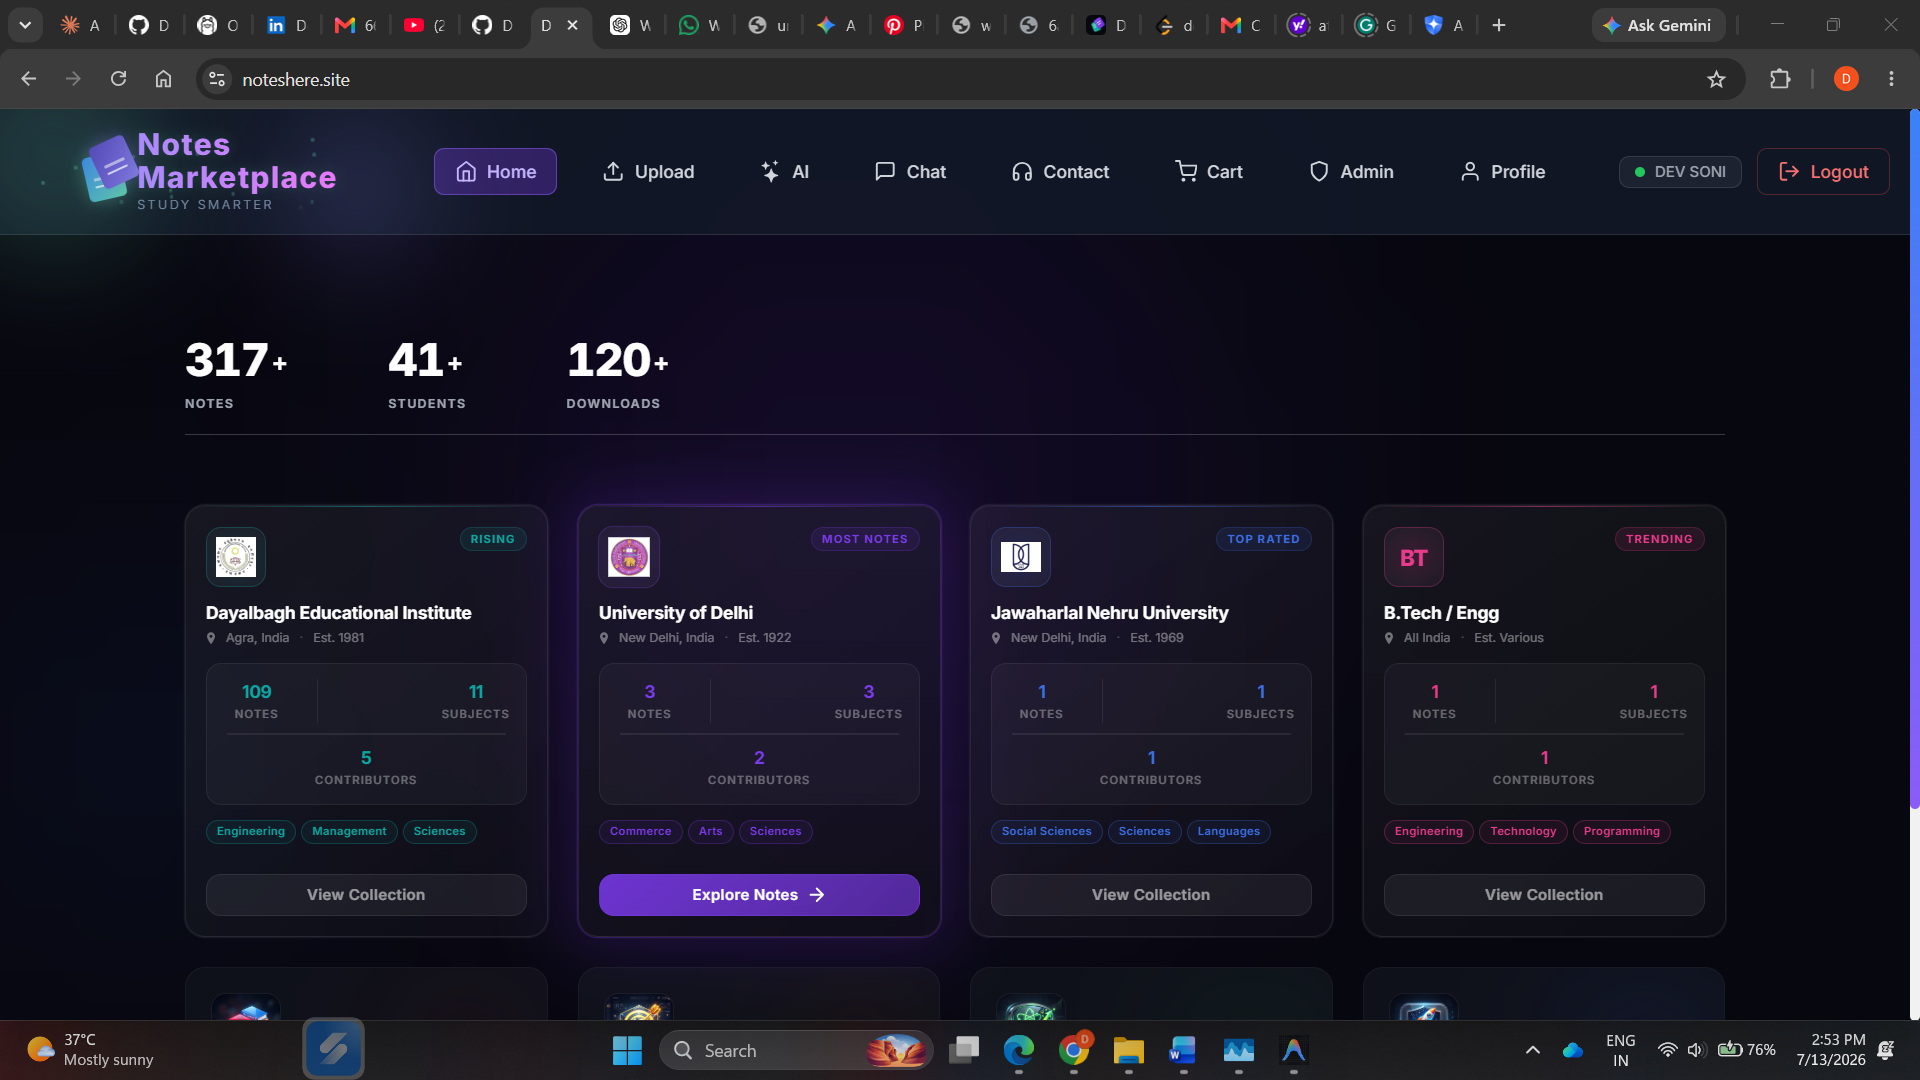
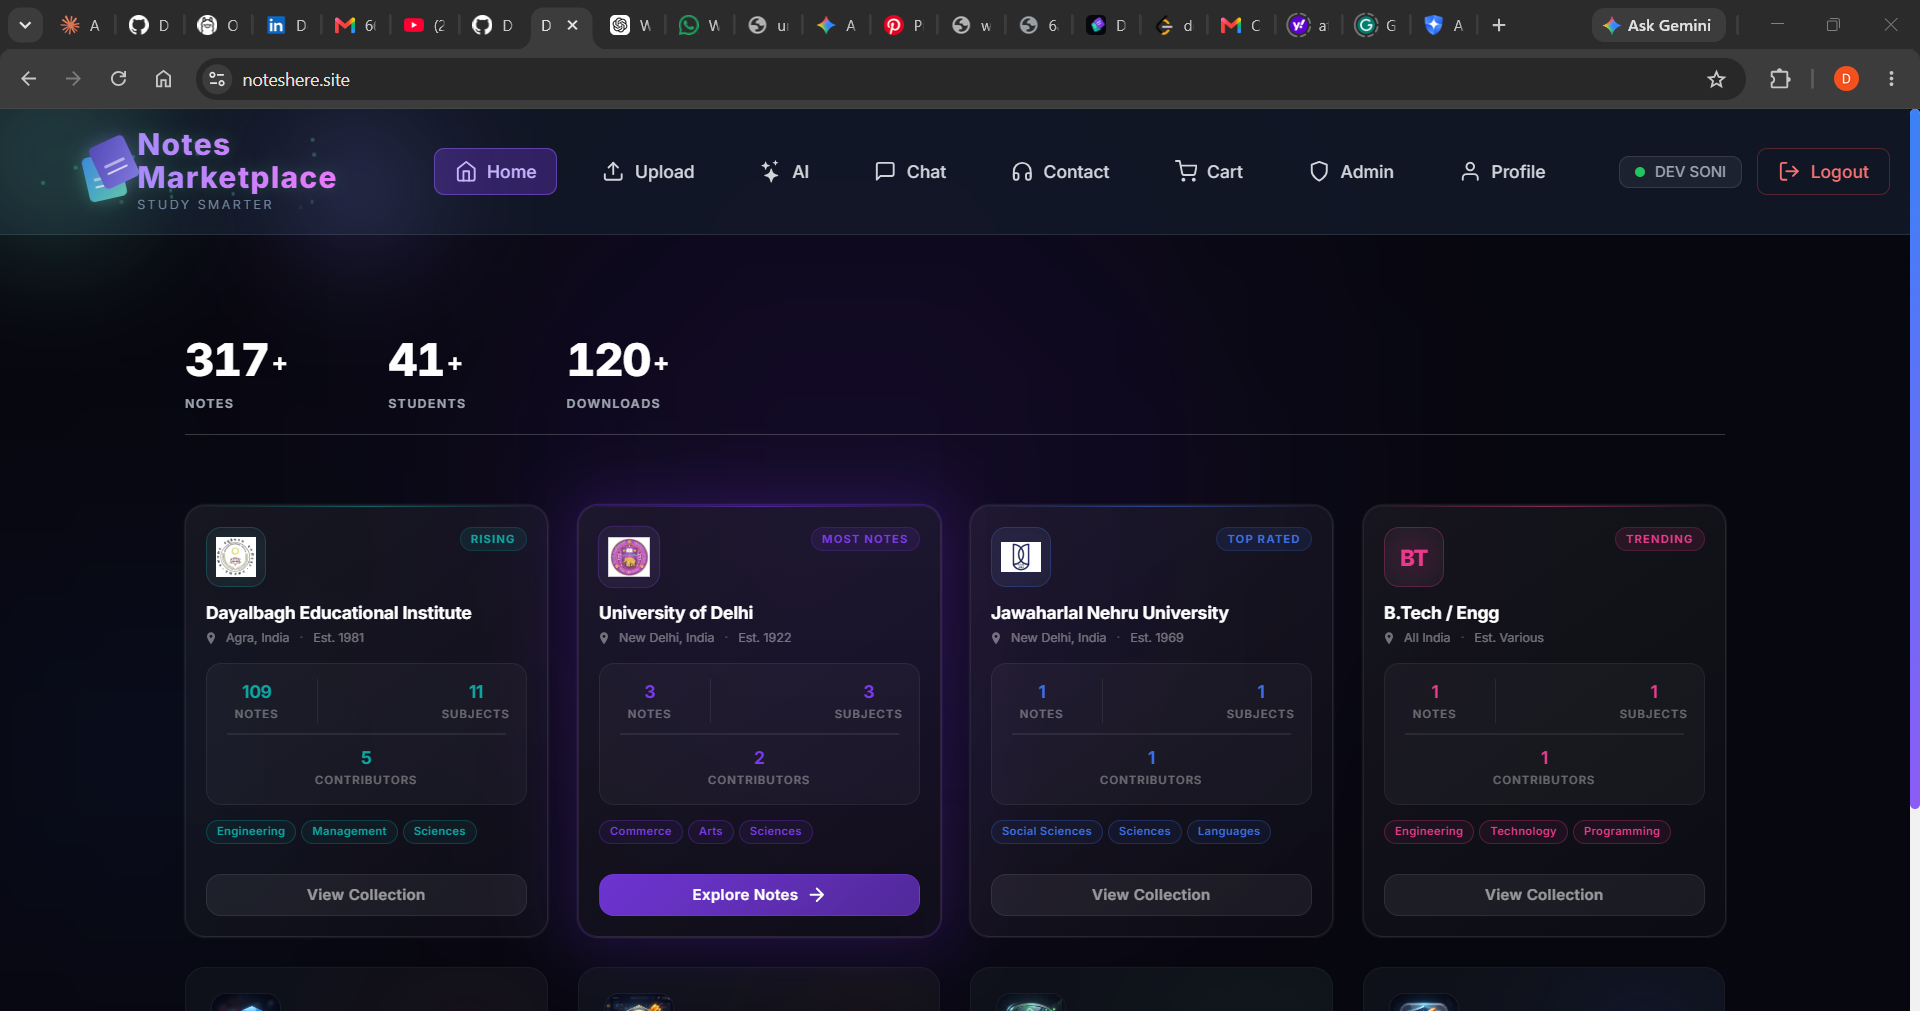
feat: auto-assign guest ID by IP address on site entry without forced login page block

diff --git a/frontend/src/pages/LoginSocialOnly.jsx b/frontend/src/pages/LoginSocialOnly.jsx
@@ -14,10 +14,15 @@ export default function LoginSocialOnly() {
   const [guestLoading, setGuestLoading] = useState(false);
 
   useEffect(() => {
-    if (user && !user.isGuest) navigate('/', { replace: true });
+    if (user) {
+      navigate('/', { replace: true });
+    } else {
+      handleGuestLogin();
+    }
   }, [user, navigate]);
 
   const handleGuestLogin = async () => {
+    if (guestLoading) return;
     setGuestLoading(true);
     try {
       const { data } = await API.post('/auth/guest-init');
